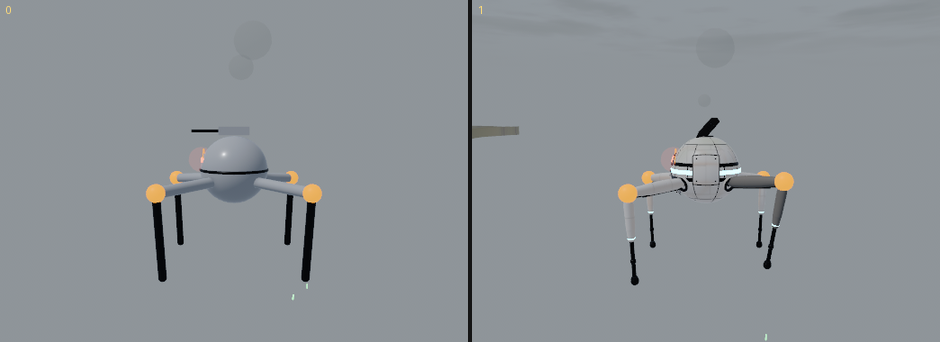
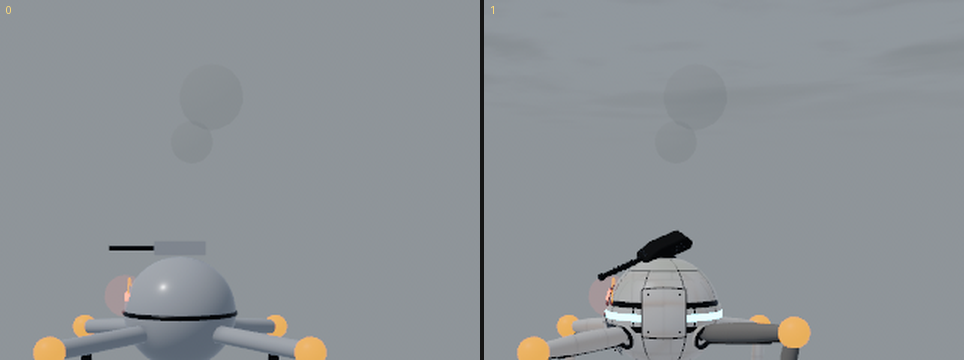
Robot bodies: the slumped-gun before and after, from reel:disarmed
Claude-Session: https://claude.ai/code/session_01Ka1TLmCaYKYxaoCkbURtaJ

diff --git a/docs/shots/robot-bodies/README.md b/docs/shots/robot-bodies/README.md
@@ -35,7 +35,7 @@ software renderer is.
 | `strikes_before.png` | `reel:strikes,20,1` at 14:00, 15 m (crop), on main before this change: four walkers shot with a pistol round (34) every half second, left to right in the front plate, the core, the eye and a knee. At 15 m none of the four reads as more than a speck: the plate's, the eye's and the knee's leave a small dark mark, the core's nothing you can see. This is the playtest's fight (raid 1, t=997-1015: four core hits that read as nothing) | 1/30 s |
 | `strikes_after.png` | The same, after (`damage::strike`, `fx::strike_flashes`): the plate **shrugs** (a dull scuff, it hardly rocks), the core is **wounded** (an orange spit and molten drops, and its smoke from the first round), the eye and the knee **tell** (a white-hot flash and a spray of sparks, and it flinches). Audio's sounds follow the same three (`damage::RobotStruck`) | 1/30 s |
 | `strikes_before_frame.png` | One whole frame of the before (1280x720, uncropped): the fourth, where the rounds have just landed, as the after's `--frames 48` still (for Capture's before/after sheet, which crops it itself) | — |
-| `broken_walker_before_after.png` | `reel:broken,2,30`, side on at 5 m, main (left) and after (right): a walker with its gun shot dead and a leg at 5% (Models' broken walker). Before, the dead gun sits level as if still on watch. After, it has nosed over past any aim and stopped tracking (`anim::DEAD_GUN_DROOP`), and the failing leg's foot is held off the ground at rest (`anim::FAILING_LIFT`). The failing knee keeps its orange mark: one round still drops it. Shot with `EXTRACTION_ALLOW_FALLBACK=1` (the valley's ground textures weren't generated in this container): the robot is the subject | — |
+| `broken_walker_before_after.png` | `reel:disarmed,2,30` (named `reel:broken` before this change), side on at 5 m, main (left) and after (right): a walker with its gun shot dead and a leg at 5%, standing still (Models' broken walker). Before, the dead gun sits level as if still on watch. After, it slumps: the barrel hangs off its mount, swung aside and listing (`anim::DEAD_GUN_DROOP`, `DEAD_GUN_SLEW`, `DEAD_GUN_LIST`), clear of the shell, and no longer tracks. `anim::a_dead_gun_droops_and_stops_tracking` checks this in world space: the muzzle ends at least 0.15 m below the mount, the turret lists, every barrel point stays outside the orb, and the muzzle holds still in the body frame when the look target moves. The failing leg's foot is held off the ground at rest (`anim::FAILING_LIFT`), and the failing knee keeps its orange mark: one round still drops it. Shot with `EXTRACTION_ALLOW_FALLBACK=1` (the valley's ground textures weren't generated in this container): the robot is the subject | — |
 | `weak_points_15m_before.png` / `weak_points_15m_after.png` | `reel:strikes,1,1` at 14:00, 15 m (crop), main and after: four whole walkers. Before, the knees are 12 cm grey joints and the eye an 8 cm band. After, every weak point (`weak_points::is_weak`: what one pistol round tells on) wears the one shoot-here orange: a ball at each knee, a ring round the eye and the turret. Each is at least 0.24 m across (0.92 deg at 15 m) | — |
 | `weak_points_25m_before.png` / `weak_points_25m_after.png` | `reel:tellsbefore,1,1`, the same at 24-36 m (crop): the knees still pick the walkers out, 0.55 deg at 25 m, what a VR pistol holds (`weak_points::VR_HOLD_DEG`) | — |
 | `weathering.png` | The same walker in the training yard (clean), Marrow Creek (rust streaks, moss on top) and Cinder Works (sooted, heat-blued metal) | still |
